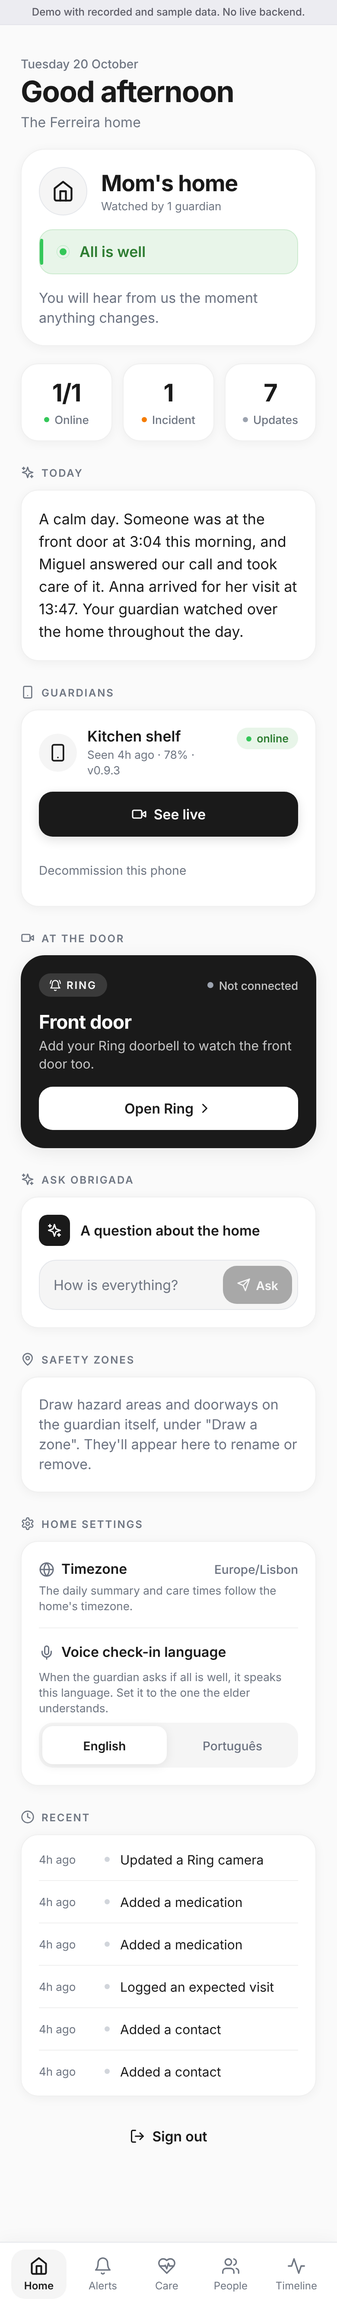
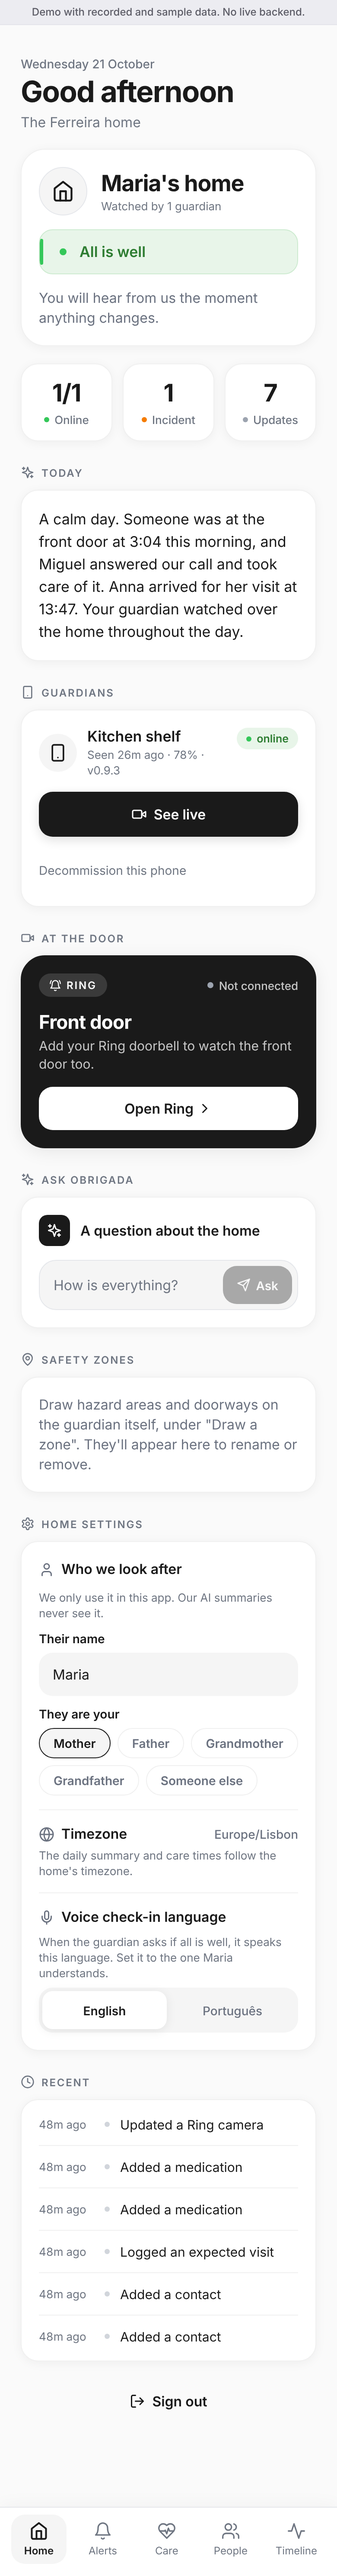
feat(demo): web demo family is Maria, the caregiver's mother
fixtures.json carries elderName and elderRelation, the mock PATCH
/me/family accepts them, and the mock Q&A recognises the name. Refreshes
the phone Home screenshot, which now reads "Maria's home".

diff --git a/demo/web/mock-api.js b/demo/web/mock-api.js
@@ -292,7 +292,8 @@
 
   function answerFor(question) {
     var q = String(question || '').toLowerCase();
-    if (/\b(mom|mum|mother|she|her)\b/.test(q) || /\btoday\b/.test(q) || /how (was|is)/.test(q)) {
+    var elder = String((S.family && S.family.elderName) || '').toLowerCase();
+    if ((elder && q.indexOf(elder) >= 0) || /\b(mom|mum|mother|she|her)\b/.test(q) || /\btoday\b/.test(q) || /how (was|is)/.test(q)) {
       var lines = [];
       var night = S.details[F.__nightIncidentId];
       if (night) {
@@ -331,7 +332,7 @@
     }
     return (
       'In this demo I can only answer from the recorded day: visits, alerts, calls and the care plan. ' +
-      'Try asking "How was Mom today?"'
+      'Try asking "How was ' + ((S.family && S.family.elderName) || 'Mom') + ' today?"'
     );
   }
 
@@ -515,7 +516,14 @@
 
     // Household settings.
     if (method === 'PATCH' && path === '/me/family') {
-      Object.assign(S.family, pick(body, ['name', 'timezone', 'checkinLanguage']));
+      Object.assign(
+        S.family,
+        pick(body, ['name', 'timezone', 'checkinLanguage', 'elderName', 'elderRelation']),
+      );
+      // Like the backend: a blank name clears it.
+      if (typeof S.family.elderName === 'string') {
+        S.family.elderName = S.family.elderName.trim() || null;
+      }
       if (body && body.name) S.session.family.name = body.name;
       log('Updated household settings');
       save();

diff --git a/demo/web/screenshot.js b/demo/web/screenshot.js
@@ -70,7 +70,7 @@ async function run() {
     await page.waitForTimeout(600);
     await shot('01-home');
 
-    await page.getByPlaceholder('How is everything?').fill('How was Mom today?');
+    await page.getByPlaceholder('How is everything?').fill('How was Maria today?');
     await page.getByText('Ask', { exact: true }).click();
     await page.getByText('Nothing else needed your attention.').waitFor();
     await page.getByText('Nothing else needed your attention.').scrollIntoViewIfNeeded();
